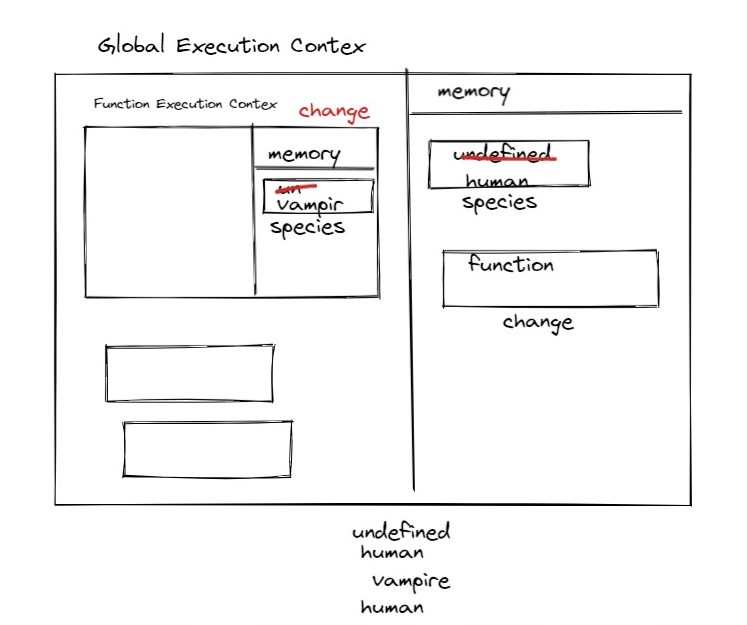
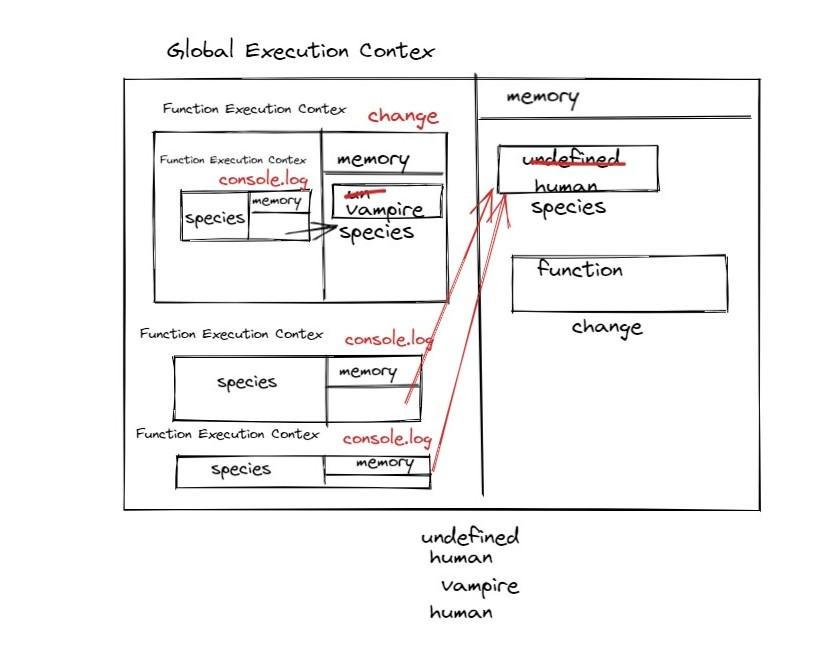
assignment

Changed region(s): [[0.0616, 0.0608, 0.9545, 1.0]]

diff --git a/block-BJaagq/code/TODO.md b/block-BJaagq/code/TODO.md
@@ -36,8 +36,8 @@ function topLevelFn() {
   function nestedFn() {
     var anotherLocalVar = "Local to nestedFn's scope.";
 
-    console.log(localVar); // 1
-    console.log(topLevelVar); // 2
+    console.log(localVar); // 1 This is local to topLevelFn's scope
+    console.log(topLevelVar); // 2 This is global scope!
   }
 
   nestedFn();
@@ -48,7 +48,7 @@ topLevelFn();
 
 <!-- Put your image below -->
 
-![](./img/image-name.jpg)
+![](./img/top.jpg)
 
 - Create the execution context diagram
 - What will be the value of 1 and 2
@@ -82,4 +82,4 @@ console.log(one, two, three, four); // 5
 ![](./img/image-name.jpg)
 
 - Create the execution context diagram
-- What will be the value of 1, 2, 3, 4 and 5 or error if the code does not work
+- What will be the value of 1, 2, 3, 4 and 5 or error if the code does not work //error show
